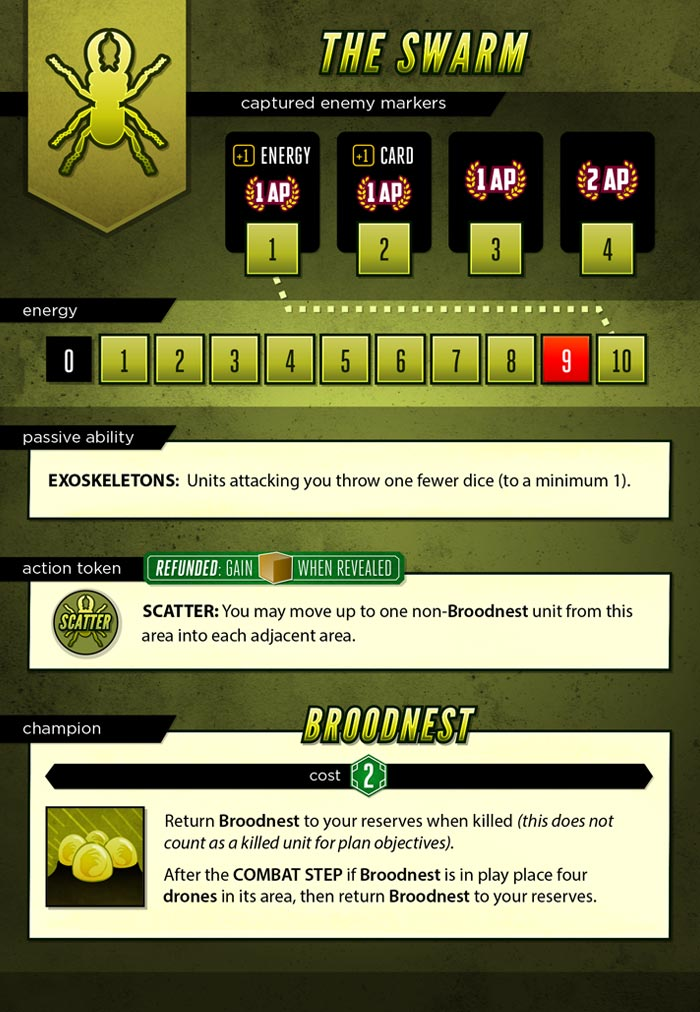
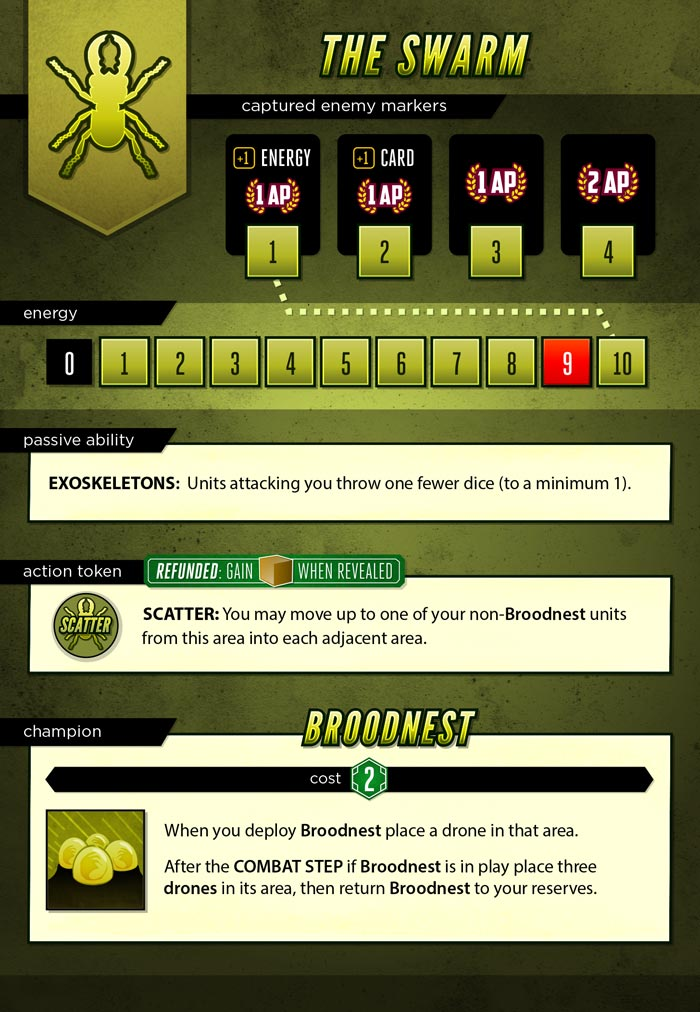
tweak swarm and allow self kills to count for lose units plans

diff --git a/server/classes/factions/Swarm.js b/server/classes/factions/Swarm.js
@@ -13,8 +13,11 @@ class Swarm extends Faction {
         this.data.focusDescription = "Have units in many areas";
         this.data.title = "The Swarm";
         this.data.factionDefenseBonus = 0;
+        this.data.hatchCount = 3;
 
         // tokens
+        this.tokens['deploy'].count = 4;
+
         this.tokens['scatter'] = {
             count: 1,
             data: {
@@ -26,8 +29,10 @@ class Swarm extends Faction {
             }
         };
 
+
+
         // units
-        this.units['patsy'].count = 3;
+        this.units['patsy'].count = 6;
         this.units['goon'].count = 3;
         this.units['mole'].count = 3;
 
@@ -59,7 +64,7 @@ class Swarm extends Faction {
                 killed: false,
                 selected: false,
                 hitsAssigned: 0,
-                onKilled: 'returnUnitToReserves'
+                onDeploy: 'deployPlaceDrone'
             }
         };
     }
@@ -111,14 +116,12 @@ class Swarm extends Faction {
 
         let units = [];
 
-        for( let i = 0; i < 4; i++ ){
-            let drone = this.data.units.find( unit => unit.type === 'drone' && _.unitInReserves( unit ) );
-            drone.location = area.name;
-            units.push( drone );
+        for( let i = 0; i < this.data.hatchCount; i++ ){
+            units.push( this.placeDrone( area ) );
         }
 
         this.game().sound( 'hatch' );
-        let message = `Broodnest hatches, spawning four <span class="faction-swarm">drones</span> in The ${area.name}`;
+        let message = `Broodnest hatches, spawning ${this.data.hatchCount} <span class="faction-swarm">drones</span> in The ${area.name}`;
         this.game().message({ faction : this, message: message });
 
         await this.game().timedPrompt('units-shifted', {
@@ -126,6 +129,19 @@ class Swarm extends Faction {
             units: units
         }).catch( error => console.error( error ) );
     }
+
+
+    deployPlaceDrone( event ) {
+        let area = this.game().areas[event.unit.location];
+        this.placeDrone( area )
+    }
+
+    placeDrone( area ){
+        let drone = this.data.units.find( unit => unit.type === 'drone' && _.unitInReserves( unit ) );
+        drone.location = area.name;
+        return drone;
+    }
+
 
     canActivateScatter( token, area ) {
         return !area.isTrapped( this ) && this.unitsInArea( area ).filter( unit => unit.type !== 'champion' ).length;

diff --git a/server/classes/PlanTester.js b/server/classes/PlanTester.js
@@ -198,7 +198,7 @@ class PlanTester {
     }
 
     loseUnits( faction, lostUnits ){
-        let factionLostUnits = faction.data.units.filter( unit => unit.killed && unit.killed !== faction.name ).length;
+        let factionLostUnits = faction.data.units.filter( unit => unit.killed ).length;
         let result = factionLostUnits >= lostUnits;
 
         if( this.debug ) console.log (
